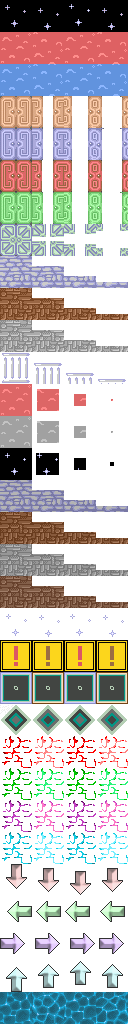
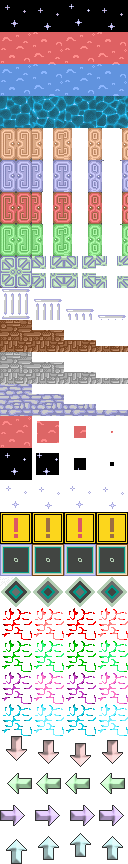
Update animates

diff --git a/project/icons.js b/project/icons.js
@@ -56,36 +56,31 @@ icons_4665ee12_3a1f_44a4_bea3_0fccba634dc1 =
         'animates': {
             'star': 0,
             'lava': 1,
-            'waterWall': 2,
-            'yellowDoor': 3,
-            'blueDoor': 4,
-            'redDoor': 5,
-            'greenDoor': 6,
-            'specialDoor': 7,
-            'blueWallDoor': 8,
-            'yellowWallDoor': 9,
-            'whiteWallDoor': 10,
-            'steelDoor': 11,
-            'lavaDoor': 12,
-            'grayLavaDoor': 13,
+            'blueWater': 2,
+            'water': 3,
+            'yellowDoor': 4,
+            'blueDoor': 5,
+            'redDoor': 6,
+            'greenDoor': 7,
+            'specialDoor': 8,
+            'steelDoor': 9,
+            'yellowWallDoor': 10,
+            'whiteWallDoor': 11,
+            'blueWallDoor': 12,
+            'lavaDoor': 13,
             'starDoor': 14,
-            'mockBlueWallDoor': 15,
-            'mockYellowWallDoor': 16,
-            'mockWhiteWallDoor': 17,
-            'iceYellowWallDoor': 18,
-            'starPortal': 19,
-            'exclamation': 20,
-            'portal': 21,
-            'switch': 22,
-            'lavaNet': 23,
-            'poisonNet': 24,
-            'weakNet': 25,
-            'curseNet': 26,
-            'downPortal': 27,
-            'leftPortal': 28,
-            'rightPortal': 29,
-            'upPortal': 30,
-            'water': 31,
+            'starPortal': 15,
+            //'exclamation': 16,
+            'portal': 17,
+            //'switch': 18,
+            'lavaNet': 19,
+            'poisonNet': 20,
+            'weakNet': 21,
+            'curseNet': 22,
+            'downPortal': 23,
+            'leftPortal': 24,
+            'rightPortal': 25,
+            'upPortal': 26,
         },
         'npcs': {
             'man': 0,

diff --git a/project/maps.js b/project/maps.js
@@ -17,7 +17,8 @@ maps_90f36752_8815_4be8_b32b_d7fad1d0542e =
     '12':{'cls': 'animates', 'id': 'poisonNet', 'noPass': false, 'trigger': 'passNet'}, // 毒网
     '13':{'cls': 'animates', 'id': 'weakNet', 'noPass': false, 'trigger': 'passNet'}, // 衰网
     '14':{'cls': 'animates', 'id': 'curseNet', 'noPass': false, 'trigger': 'passNet'}, // 咒网
-    '15':{'cls': 'animates', 'id': 'water', 'noPass': true}, // 水
+    '15':{'cls': 'animates', 'id': 'blueWater', 'noPass': true}, // 水
+    '16':{'cls': 'animates', 'id': 'water', 'noPass': true}, // 水
     // 在这里添加更多地形
     // 如果空位不足，可以从180以后开始继续放，只要不和现有的数字冲突即可
 

diff --git a/libs/events.js b/libs/events.js
@@ -842,7 +842,7 @@ events.prototype.openDoor = function (id, x, y, needKey, callback) {
     if (core.interval.openDoorAnimate!=null) return;
 
     // 是否存在门
-    if (!core.terrainExists(x, y, id)) {
+    if (!core.terrainExists(x, y, id) && id!='lava' && id!='star') {
         if (core.isset(callback)) callback();
         return;
     }
@@ -876,6 +876,7 @@ events.prototype.openDoor = function (id, x, y, needKey, callback) {
     }
     var door = core.material.icons.animates[doorId];
     core.status.replay.animate=true;
+    core.removeGlobalAnimate(x,y);
     core.interval.openDoorAnimate = window.setInterval(function () {
         state++;
         if (state == 4) {
